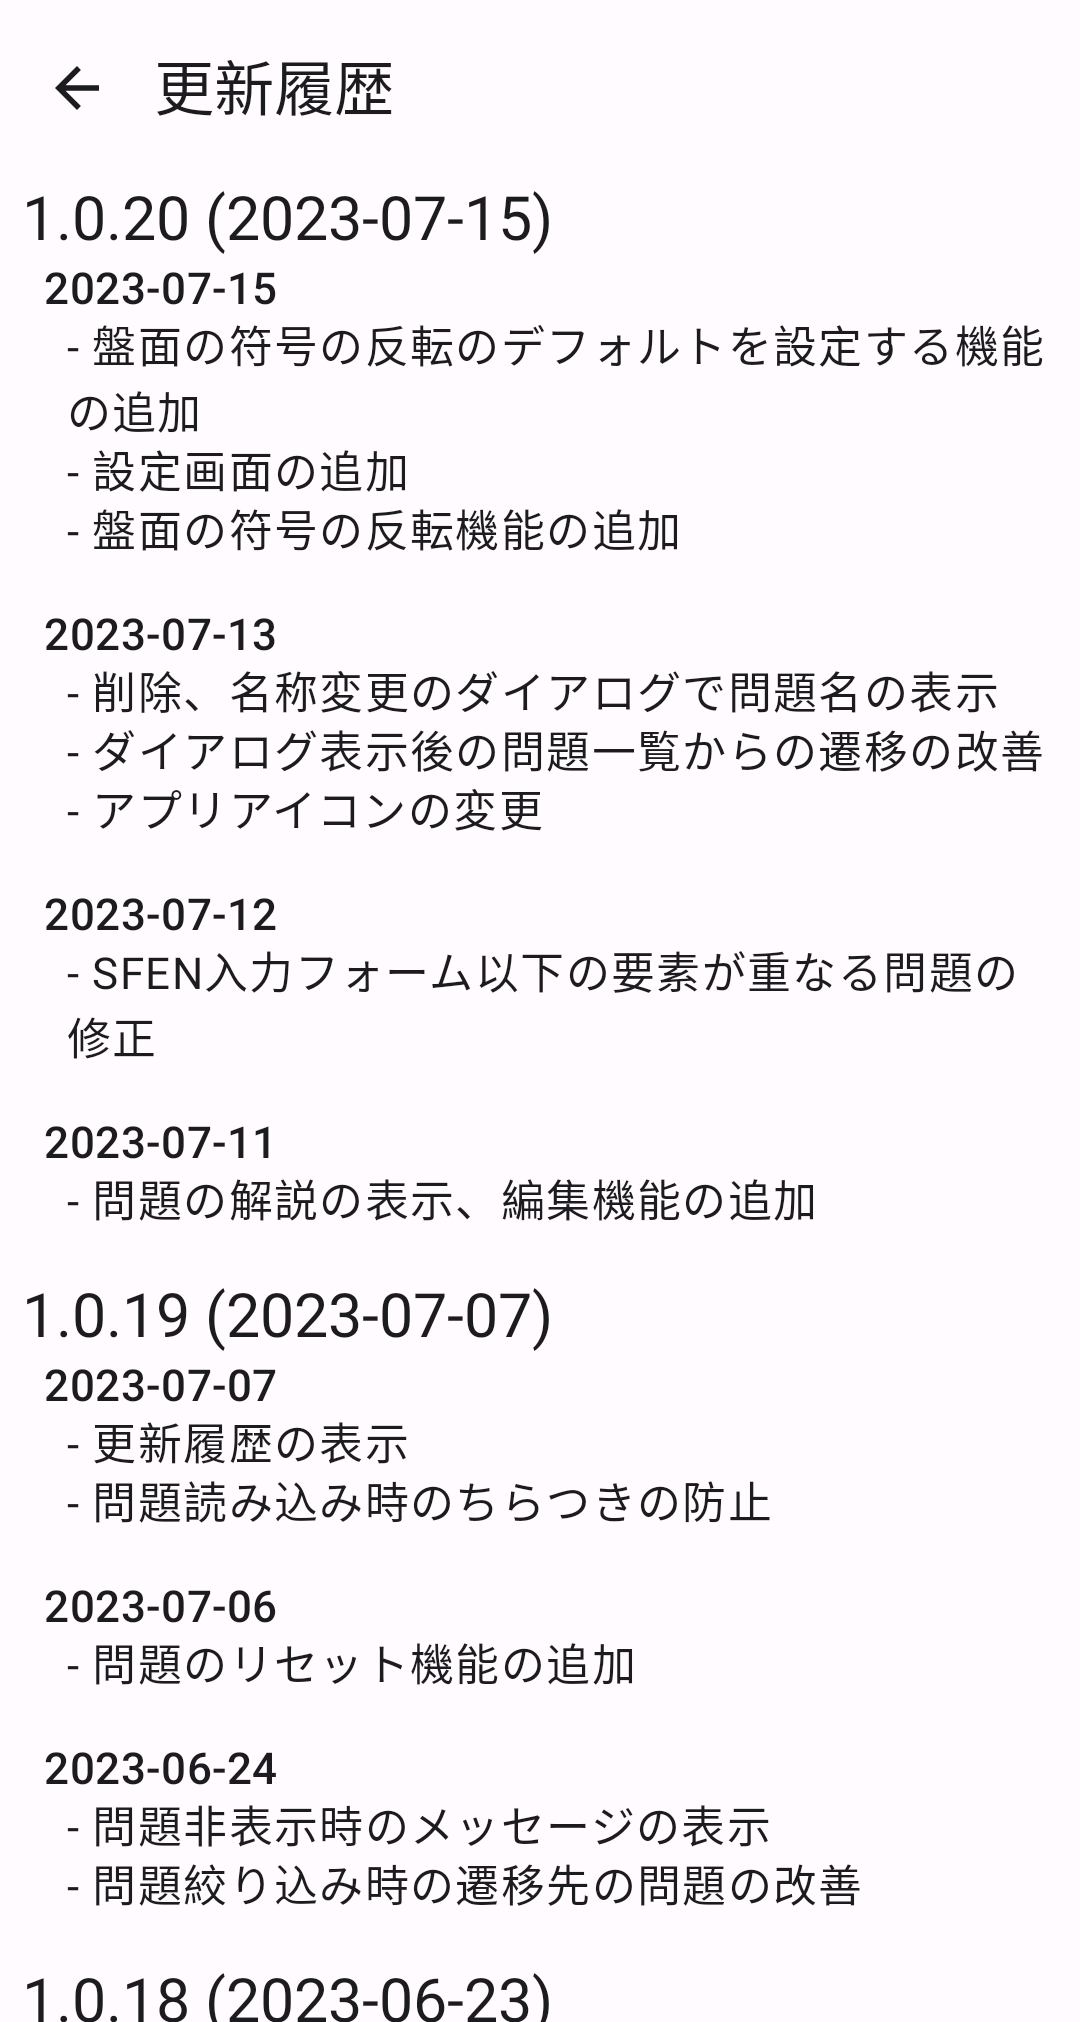
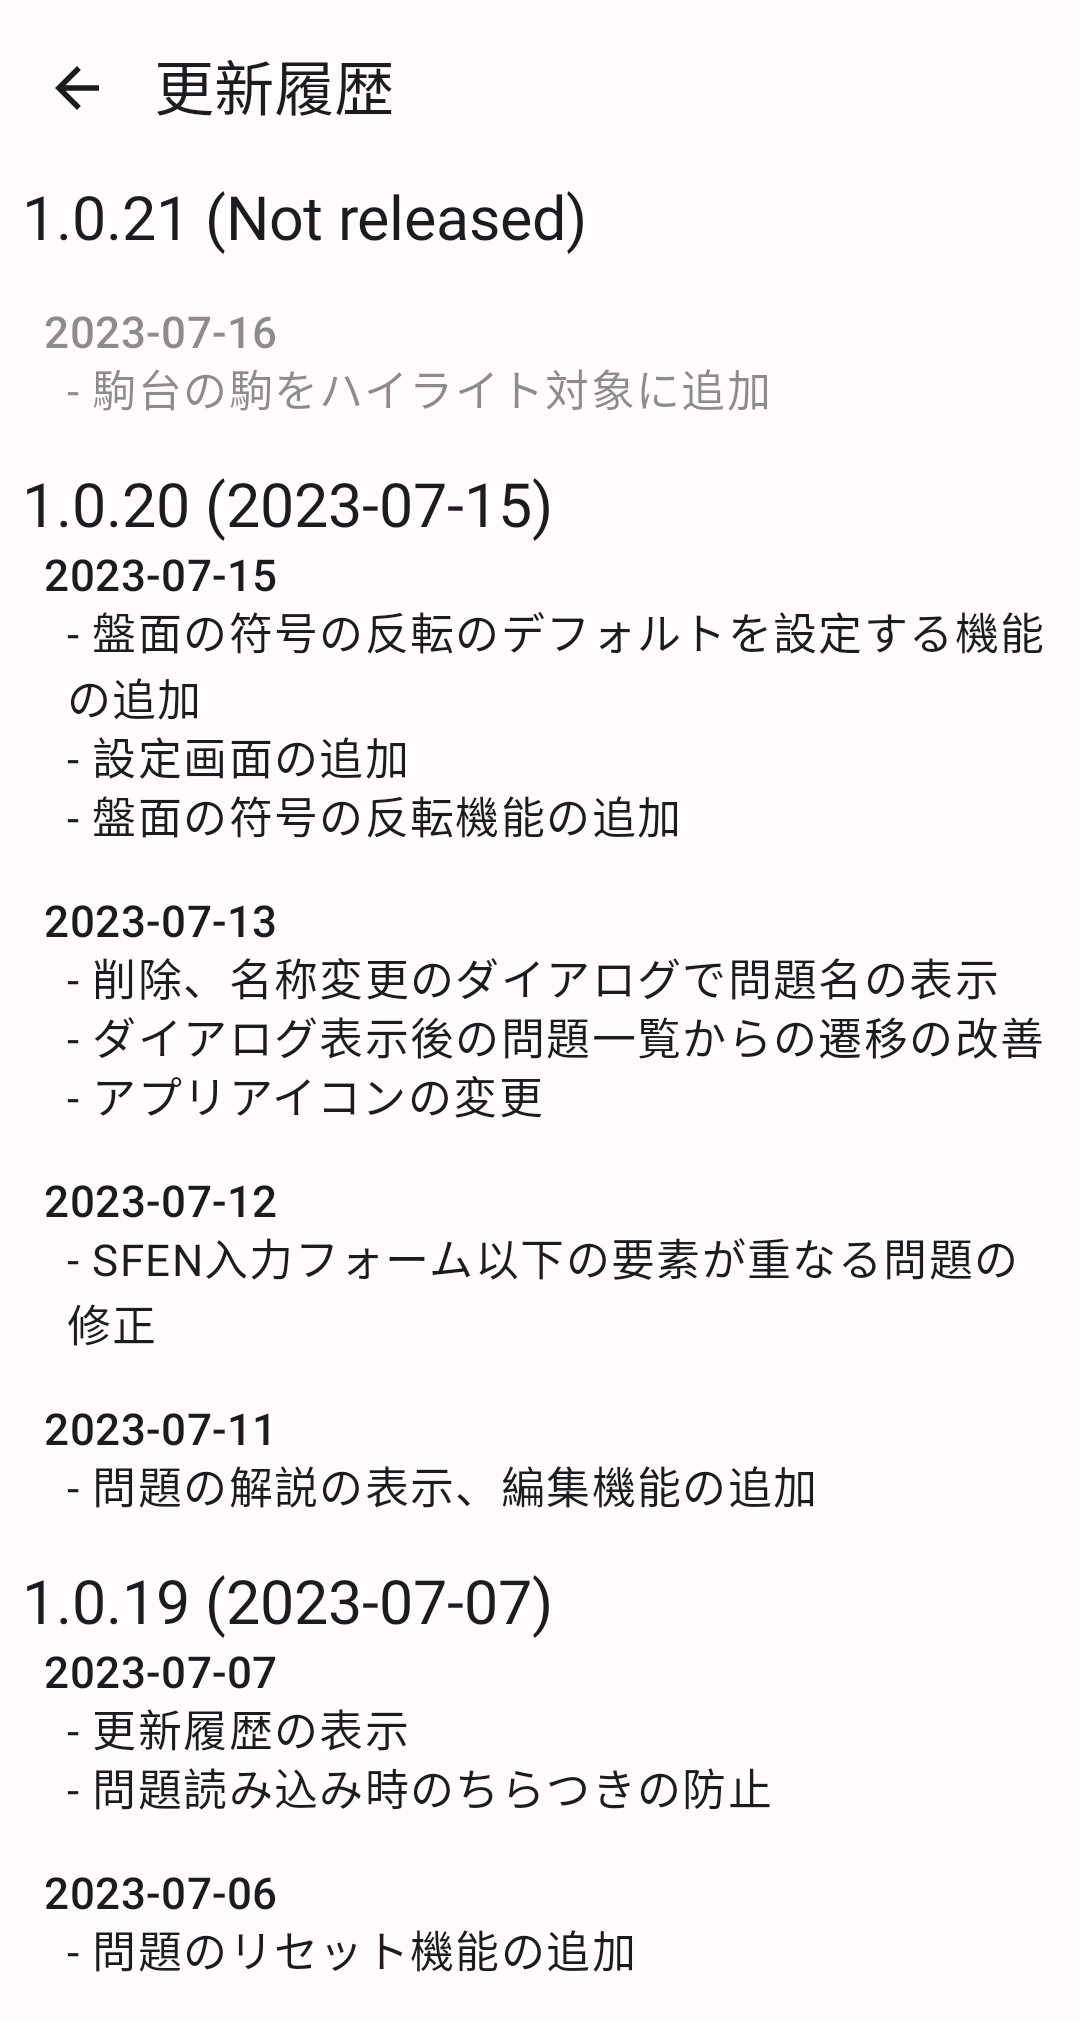
update pictures

diff --git a/CHANGELOG.md b/CHANGELOG.md
@@ -1,5 +1,8 @@
 <!-- This file is generated by generate_changelog.py. Do NOT edit manually. -->
 
+## v1.0.21 [Not released]
+
+- 駒台の駒をハイライト対象に追加
 
 ## v1.0.20 [20230715]
 
